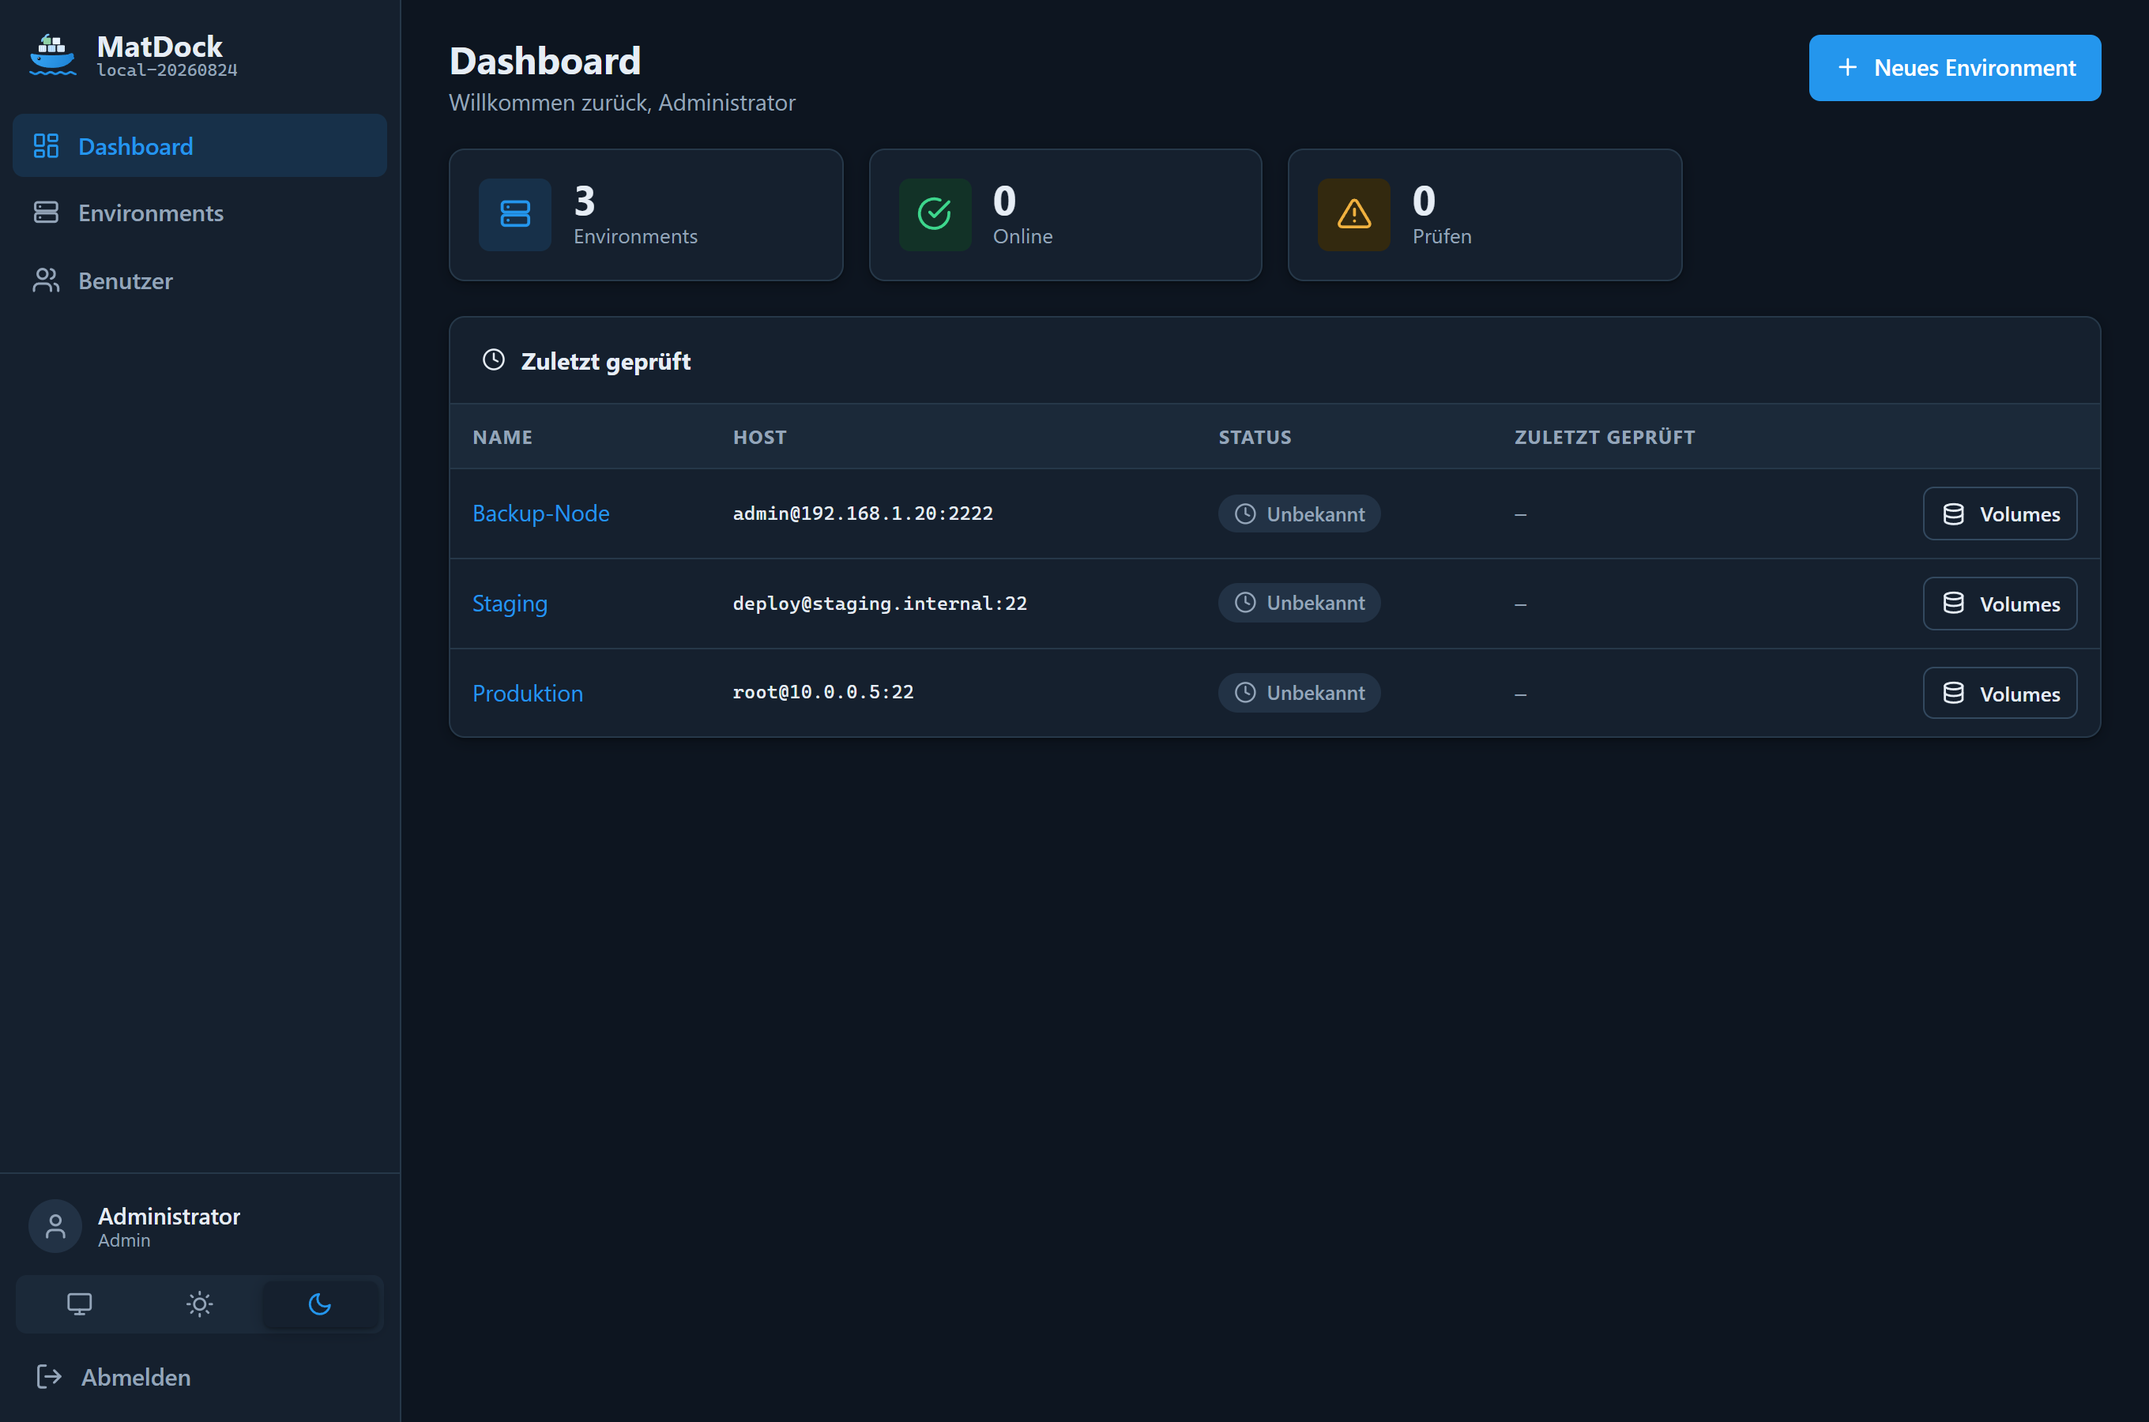
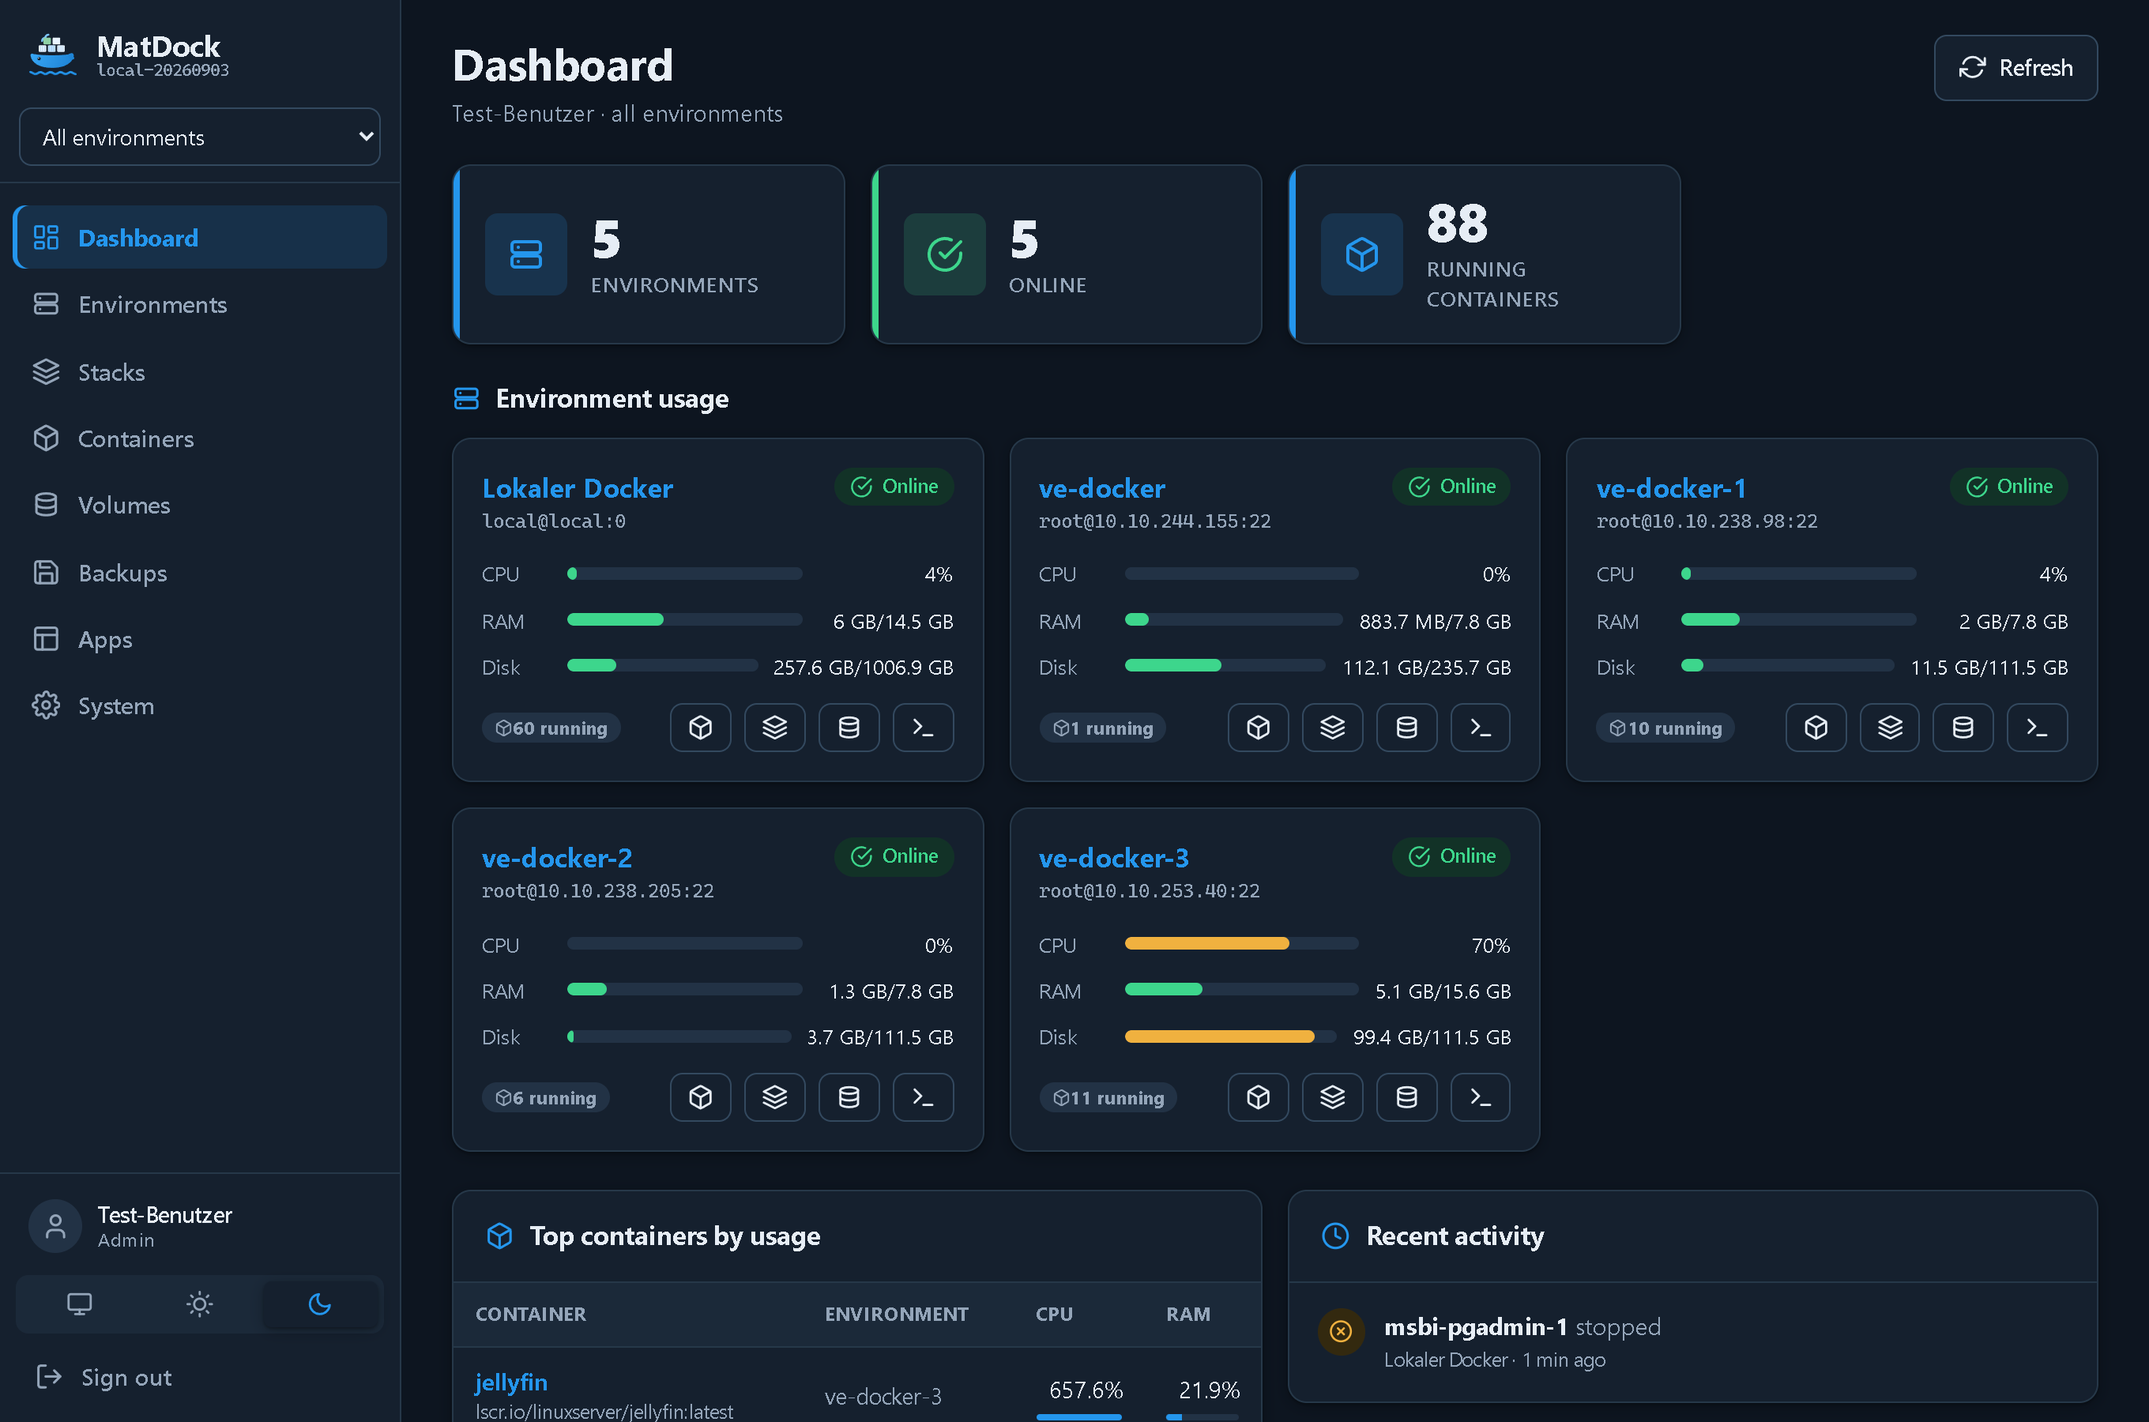
Docs: neue README (MatFile-Stil) + aktuelle Screenshots
- README.md komplett neu im Stil von MatFile: Hero (Dashboard), Feature-
  Uebersicht, Screenshot-Galerie, Quick-Start (Compose/ghcr/Windows-EXE),
  /data-Layout, Architektur, Status, Versionierung.
- Frische Screenshots nach docs/images/ (Playwright + Edge headless, tester-
  Account): dashboard(+dark), environments, containers, stacks(+dark), volumes,
  files, apps, backups-targets, logs, system, mobile.

diff --git a/README.md b/README.md
@@ -1,151 +1,245 @@
-<h1 align="center">
-  <img src="src/MatDock.Web/wwwroot/img/logo.svg" width="64" height="64" alt="MatDock logo"><br>
-  MatDock
-</h1>
+<div align="center">
 
-<p align="center"><em>Docker Environment &amp; Volume Manager – eine schlanke Alternative zu Portainer/Dockhand mit Fokus auf Environment- und Volume-Verwaltung.</em></p>
+<img src="src/MatDock.Web/wwwroot/img/logo.svg" width="96" alt="MatDock" />
+
+# MatDock
+
+**A Docker manager for your servers – in the browser.**
+
+Environments over SSH or the local socket, stacks, containers, volumes, live logs, a web
+terminal and real backups. One container, no cloud, no agents on the hosts.
+
+</div>
+
+![The dashboard: environment usage, top containers and recent activity](docs/images/dashboard.png)
 
 ---
 
-## Was ist MatDock?
+## What this is about
 
-MatDock verbindet sich per **SSH** mit mehreren Docker-Hosts (Environments) und macht deren
-Volumes verwaltbar. Der Fokus liegt auf dem **Verschieben von Volumes zwischen Umgebungen** sowie
-(geplant) auf **Backup-Plänen** mit Retention, Zeitplänen und Restore.
+Portainer and the like are great – but running many small servers means one agent per host,
+another UI per box, and backups that are somebody else's problem. MatDock connects to your
+hosts over plain **SSH** (or the **local Docker socket**) – nothing to install on the target –
+and puts a single dashboard on top of all of them: stacks, containers, volumes, images and
+live logs across every environment, with a global switcher to look at one host or **all at
+once**. On top of that it does what most managers leave out: **volume migration between hosts**
+and **scheduled, restorable backups** – single volumes or whole stacks.
 
-**Build 1 (Fundament + Environments)** umfasst:
+## At a glance
 
-- 🔐 Lokale Anmeldung, Rollen (Admin / User / Anonym), server-seitige Sessions (überstehen Container-Neustart)
-- 🖥 Environment-Verwaltung: SSH-Hosts anlegen/bearbeiten, **Verbindung testen**
-- 💾 Volumes eines Environments anzeigen (Basis für die spätere Migration)
-- 👤 Benutzerverwaltung (Admin)
-- 🎨 Eigenes UI-Designsystem (Dark/Hell/System), mobil-optimiert, wiederverwendbare Controls
+**Environments**
+- Connect over **SSH** (password or key) or the **local Docker socket** – no agent on the host
+- **Host stats** per environment: CPU load, RAM and disk, running containers, Docker version
+- A **global environment selector** in the sidebar – one host or **"All environments"**, every
+  page follows it
+- Connection test with a clear result; secrets stored **encrypted**
 
-**Geplant (nächste Meilensteine):** Volume-Migration A→B, Backup-Pläne, Retention, Zeitpläne/Scheduler,
-Restore, Microsoft Entra ID, Anonym-Link-Freigaben.
+**Dashboard**
+- Environment tiles with **CPU / RAM / disk** usage, **top containers** by load, a feed of
+  recent **container events** (created / started / stopped) and the **backup status**
+
+**Stacks & containers**
+- **Managed and discovered** Compose stacks side by side – list or tiles, **expandable to the
+  container cards** with per-service actions
+- Add a stack from the **Compose editor**, from **Git**, or from an **App template**
+- Deploy / redeploy / stop, aggregated **resources** per stack
+- Container list with **short status** (hover for detail), **ports as clickable tags**, combined
+  **CPU/RAM**, and actions: **open, shell, logs, volumes, start/stop/restart**
+
+**Volumes**
+- List across environments, **migrate a volume from one host to another** (tar over SSH)
+- **File explorer** in the volume: browse, **edit text files**, image **preview**, **upload**,
+  **download**, create folder/file, rename, duplicate, delete
+- Create volumes, backup and restore
+
+**Backups**
+- **Scheduled jobs** (cron) with retention, plus a full **history**
+- **Targets**: the local data volume or a **NAS via SMB** – browse the archives actually present
+  at a target and **restore even backups written by another/older MatDock**
+- **Full stack bundles**: all volumes **+ the compose definition + image references** in one
+  backup, restored as a running stack (images are pulled again on restore)
+
+**Operations**
+- **Live log viewer** (streaming `docker logs -f`): pause, follow, **live filter**, **search**
+- **Web terminal** (xterm.js) – a shell on the host or straight into a container
+- **Apps**: reusable Compose blueprints with icons, installed as a stack in one click
+- Users & roles, notifications (**SMTP + webhook**), Git credentials – all under **System**
+- **Light and dark**, works well on **mobile**, no cloud and no third-party services
 
 ## Screenshots
 
-| Dashboard | Environments |
-|-----------|--------------|
-| ![Dashboard](docs/images/dashboard.png) | ![Environments](docs/images/environments.png) |
+### Stacks – expandable to the containers, with aggregated resources
 
-| Environment bearbeiten | Dark Mode |
-|------------------------|-----------|
-| ![Environment bearbeiten](docs/images/environment-edit.png) | ![Dark Mode](docs/images/dashboard-dark.png) |
+![Stacks list with expanded container cards](docs/images/stacks.png)
 
-| Login | Mobil |
-|-------|-------|
-| ![Login](docs/images/login.png) | <img src="docs/images/mobile-dashboard.png" width="220" alt="Mobil"> |
+Managed and discovered Compose projects in one list. A row expands to show its containers as
+cards – each with status, ports and start/stop/restart/logs/shell – and the row itself sums up
+the stack's CPU and RAM.
 
-**Volume-Migration A→B** (Streaming per `tar` über SSH, ohne Zwischenspeicher):
+### Containers – status, ports and resources at a glance
 
-![Volume migrieren](docs/images/volume-migrate.png)
+![Container list with status, port tags and resources](docs/images/containers.png)
 
-## Tech-Stack
+Short status with the full text on hover, published ports as tags that open the app in a new
+tab, and CPU + RAM as one compact column. Open, shell, logs, volumes and lifecycle actions per
+row.
 
-| Bereich        | Technologie |
-|----------------|-------------|
-| Backend/UI     | ASP.NET Core 10 **Razor Pages** (C#) |
-| Datenbank      | **SQLite** (Logik) + JSON (Config), EF Core 10 |
-| SSH            | SSH.NET |
-| Docker         | Docker-CLI über SSH (strukturierte `--format '{{json .}}'`-Ausgabe) |
-| Secrets        | ASP.NET Core Data Protection (Schlüssel auf dem Datenvolume) |
+### Volumes: migration, backups and a file explorer
 
-## Schnellstart (Docker)
+| File explorer | Volumes |
+|---|---|
+| ![Volume file explorer](docs/images/files.png) | ![Volume list](docs/images/volumes.png) |
 
-```bash
-docker compose up -d --build
+Browse a volume like a folder – edit, preview, upload and download – switch volumes from the
+dropdown, or migrate a whole volume to another host.
+
+### Backups you can actually restore
+
+![Backup targets with archives and restore](docs/images/backups-targets.png)
+
+Every archive present at a target – including ones written by an older or a different MatDock
+instance to the same NAS – ready to restore. Whole stacks are backed up as a bundle (volumes +
+compose + image references) and come back as a running stack.
+
+### Live logs
+
+![Live log viewer with search](docs/images/logs.png)
+
+`docker logs -f` in the browser: follow, pause, filter to matching lines, and search with
+highlighting and next/previous.
+
+### Apps, environments and system
+
+| Apps | Environments | System |
+|---|---|---|
+| ![App templates](docs/images/apps.png) | ![Environments](docs/images/environments.png) | ![System settings](docs/images/system.png) |
+
+### Dark theme and narrow screens
+
+| Dark | Phone | Menu |
+|---|---|---|
+| ![Dark dashboard](docs/images/dashboard-dark.png) | ![Containers on a phone](docs/images/mobile-containers.png) | ![Sidebar as an overlay](docs/images/mobile-nav.png) |
+
+## Quick start
+
+Ready-made images are published to the GitHub Container Registry:
+
+| Tag | Built from | Use it for |
+|---|---|---|
+| `ghcr.io/real-ttx/matdock:latest` | `main` | releases |
+| `ghcr.io/real-ttx/matdock:nightly` | `dev` | the newest features |
+
+### 1. Just run it
+
+```yaml
+services:
+  matdock:
+    image: ghcr.io/real-ttx/matdock:latest
+    container_name: matdock
+    restart: unless-stopped
+    ports:
+      - "4455:4455"
+    environment:
+      # Initial administrator – change the password before the first start
+      MatDock__Admin__Username: admin
+      MatDock__Admin__Password: admin
+    volumes:
+      - matdock-data:/data
+      # Optional: manage THIS host's Docker directly (a "local" environment)
+      - /var/run/docker.sock:/var/run/docker.sock
+
+volumes:
+  matdock-data:
 ```
 
-Danach: <http://localhost:4455> (Port **4455**).
-
-Erste Anmeldung mit dem Seed-Admin (Passwort muss beim ersten Login geändert werden):
-
-- Benutzer: `admin`
-- Passwort: `admin`
-
-> ⚠ Ändere `MatDock__Admin__Password` in `docker-compose.yml` vor dem ersten Start.
-
-### Dev-Stack (mit SQLite-Web-Viewer)
-
 ```bash
-docker compose -f docker-compose.yml -f docker-compose.dev.yml up -d --build
+docker compose up -d
 ```
 
-- App: <http://localhost:4455>
-- SQLite-Web: <http://localhost:8085>
-- **Test-Konto** (automatisch bei lokalem/Development-Start, nie im Release): `tester` / `Tester123!`
-  (Rolle Admin, kein Passwortzwang) — zum Testen, ohne das Admin-Konto anzufassen.
+Open **http://localhost:4455** and sign in with **`admin` / `admin`**. The `matdock-data`
+volume keeps the database, the configuration, the backups and the session keys, so an update is
+just `docker compose pull && docker compose up -d`.
 
-### Live-Reload / Testen
-
-Der Workflow ist bewusst einfach: Container neu bauen und Stack neu deployen.
+Without Compose:
 
 ```bash
-./scripts/redeploy.ps1        # Release-Stack
-./scripts/redeploy.ps1 -Dev   # Dev-Stack inkl. SQLite-Web
+docker run -d --name matdock -p 4455:4455 \
+  -v matdock-data:/data -v /var/run/docker.sock:/var/run/docker.sock \
+  ghcr.io/real-ttx/matdock:latest
 ```
 
-## Lokal entwickeln (ohne Docker)
+### 2. Add your hosts
+
+MatDock reaches your servers over SSH – nothing to install there. In the UI:
+*Environments → New environment*, enter host, user and a password or private key, run the
+**connection test**, save. The sidebar switcher then flips every page between a single host and
+**all of them at once**.
+
+The socket mount above is only needed if you also want to manage the machine MatDock runs on as
+a **local** environment; remove it for an SSH-only setup.
+
+### 3. As a Windows app
+
+Every build also produces a **self-contained Windows executable** (`win-x64`, no .NET install
+needed) as a CI artifact – handy for running MatDock straight on a workstation.
+
+### 4. From source
 
 ```bash
-dotnet run --project src/MatDock.Web
+docker compose up -d --build                              # release build
+docker compose -f docker-compose.dev.yml up -d --build    # dev stack + SQLite web viewer
 ```
 
-Läuft auf <http://localhost:4455>. Daten landen in `src/MatDock.Web/App_Data/`.
+### Settings that matter
 
-## Daten & Persistenz
+| Variable | Default | Meaning |
+|---|---|---|
+| `MatDock__Admin__Username` / `__Password` | `admin` / `admin` | Initial administrator (first start only) |
+| `MatDock__DataPath` | `/data` | Data directory (SQLite, config, keys, backups) |
+| `ASPNETCORE_ENVIRONMENT` | `Production` | Standard ASP.NET Core environment |
 
-Alles Veränderliche liegt unter dem Datenverzeichnis (im Container `/data`, als Volume gemountet):
+### The `/data` volume
 
 ```
 /data
-├── matdock.db            # SQLite (Users, Sessions, Environments)
-├── config/               # JSON-Konfiguration
-├── dataprotection-keys/  # Schlüssel (Cookies + verschlüsselte Secrets)
-└── logs/
+├─ matdock.db            SQLite database
+├─ config/               JSON configuration
+├─ dataprotection-keys/  session & secret keys (survive restarts)
+└─ backups/              local backup archives
 ```
 
-Dadurch bleiben **Sessions und verschlüsselte Zugangsdaten über Container-Neustarts hinweg erhalten**.
+## How it is built
 
-## Projektstruktur
+- **ASP.NET Core 10** (Razor Pages) with **EF Core** on SQLite
+- Docker access without an agent: **SSH.NET** opens a channel to the host and runs the Docker
+  CLI; a **local** environment talks to the mounted socket instead – both behind one interface
+- Volume migration & backups stream a **tar over SSH** (no temp files on the host); backup
+  targets are the local volume or **SMB** (SMBLibrary, no OS mount)
+- The web terminal is **xterm.js** over a WebSocket ⇄ SSH PTY; live logs stream the same way
+- The interface is **plain JavaScript** – no framework, no build step; secrets are encrypted
+  with **DataProtection**
 
-```
-src/MatDock.Core   Domain, Daten (EF Core), Services (Auth, SSH, Docker, Environments)
-src/MatDock.Web    Razor Pages, UI-Controls (TagHelpers), wwwroot
-tests/MatDock.Tests xUnit-Tests
-Dockerfile, docker-compose*.yml
-.github/workflows/build.yml
-```
+## Status
 
-## Versionierung & CI
+| Milestone | Content | Status |
+|---|---|---|
+| Foundation | Docker, CI, versioning, auth, roles, sessions, design system | ✅ |
+| Environments | SSH + local socket, host stats, global selector | ✅ |
+| Volumes | Listing, migration between hosts, file explorer | ✅ |
+| Backups | Scheduled jobs, retention, history, SMB targets, restore | ✅ |
+| Containers & stacks | Managed + discovered stacks, containers, live logs, terminal | ✅ |
+| Backup v2 | Browse/restore archives at a target, full stack bundles | ✅ |
+| Apps | Compose templates with icons, one-click install | ✅ |
+| Next | Complex volumes (NFS/CIFS), Entra ID, anonymous share links | open |
 
-GitHub Actions (`.github/workflows/build.yml`) baut bei jedem Push **sowohl** ein Docker-Image
-**als auch** eine self-contained **Windows-EXE** (`win-x64`, Single-File) und lädt sie als Artefakt hoch.
+## Branches & versioning
 
-| Branch        | Kanal   | Versionsschema |
-|---------------|---------|----------------|
-| `main`        | release | `<major>.<minor>.<build>-<datum>` z. B. `0.1.42-20260825` |
-| `dev`         | nightly | `nightly-<build>-<datum>` |
-| lokal         | local   | `local-<datum>` |
+| Branch | Purpose | Version |
+|---|---|---|
+| `main` | Release | `<major>.<minor>.<build>-<yyyyMMdd>` |
+| `dev` | Development | `nightly-<build>-<yyyyMMdd>` |
+| local | – | `local-<yyyyMMdd>` |
 
-`major`/`minor` stehen zentral in [`Directory.Build.props`](Directory.Build.props); `build` ist die
-GitHub-Run-Nummer, `datum` das Build-Datum (UTC, `yyyyMMdd`).
-
-## Tests
-
-```bash
-dotnet test
-```
-
-## Sicherheitshinweise
-
-- **Initial-Admin `admin`/`admin`**: nur für den ersten Start; das Passwort **muss** beim ersten Login
-  geändert werden. Vor dem Produktivstart `MatDock__Admin__Password` setzen.
-- **TLS**: Der Container spricht intern HTTP (Port 4455). Für Produktion **TLS vorne terminieren**
-  (Reverse Proxy). `X-Forwarded-Proto` wird ausgewertet, damit das Session-Cookie dann `Secure` ist.
-- **Datenvolume** (`/data`) enthält die SQLite-DB, verschlüsselte SSH-Secrets und die
-  Data-Protection-Schlüssel – als vertraulich behandeln und gesichert sichern.
-- **Für spätere Meilensteine geplant**: Login-Rate-Limiting/Lockout, Verschlüsselung des
-  Data-Protection-Keyrings at-rest, Absicherung des lokalen Docker-SSH-Proxys per Token.
+`Major`/`Minor` live in [`Directory.Build.props`](Directory.Build.props); the build number comes
+from the GitHub action. Images are published to the GitHub Container Registry, and a
+self-contained Windows EXE is attached to every build.
